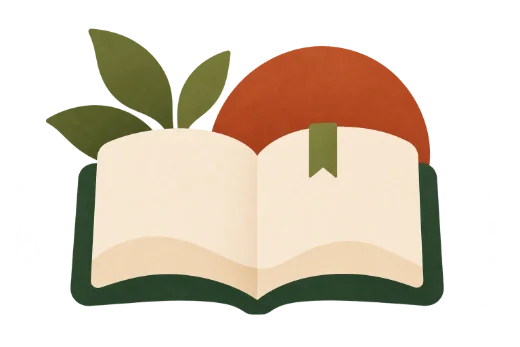
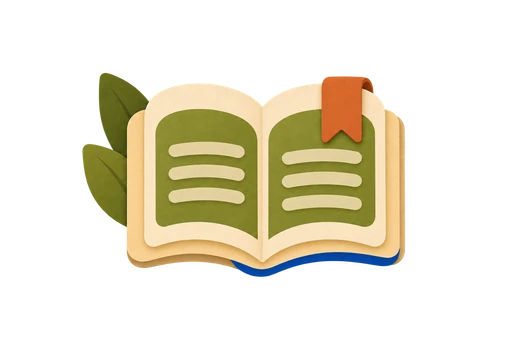
feat(visuals): apply Visual Package 01 assets to Admin Web
- Review Tasks, Metrics and Email banners use the new approved artwork in a
  5:2 frame (object-fit cover, cropped on screen only).
- Email template cards and default email images use the four new icons;
  Invite and Password reset image descriptions now match the new art.
- Manage Team Role column uses the new compact role markers (24 px, row
  heights unchanged).
- Profile card uses the new illustration.
- Dark mode: role markers and the Profile illustration sit on the
  light-green brand surface so the dark hands stay visible.

The Live signal change (brief C) is held for a Team 03 decision. Supplied
PNGs are re-encoded as WebP only. Notes and evidence in
docs/Phase-3/visual-package-01/.

Claude-Session: https://claude.ai/code/session_01G2wYwUJdDpMZsqBVJSwRsJ

diff --git a/admin-web/components/ui/HeroBanner.tsx b/admin-web/components/ui/HeroBanner.tsx
@@ -11,25 +11,36 @@ type HeroBannerProps = {
   image: StaticImage;
   // Optional wider image for screens 1280 px and up
   wideImage?: StaticImage;
+  // Optional banner proportions when the artwork is taller than the banner (Visual
+  // Package 01). The artwork fills the banner (object-fit: cover) and is cropped on
+  // screen only, toward `focus`; the file itself is never cropped.
+  frame?: { width: number; height: number };
+  focus?: string;
   actions?: ReactNode;
   // h1 by default: the banner is the page's main heading
   headingLevel?: 1 | 2;
 };
 
+// Visual Package 01 banners (Review Tasks, Metrics, Email): the 2:1 artwork is shown in a
+// 5:2 banner, cropped on screen slightly below center so every object stays in view.
+export const packageHeroFrame = { frame: { width: 5, height: 2 }, focus: 'right 70%' };
+
 // Page hero banner (approved prototype). The image fills the banner; the text sits on a
 // solid Warm Care panel on the left so it never depends on the photo for contrast.
 // The artwork is unchanged; only its cropping, position and responsive behavior are set here.
-export function HeroBanner({ title, description, eyebrow, image, wideImage, actions, headingLevel = 1 }: HeroBannerProps) {
+export function HeroBanner({ title, description, eyebrow, image, wideImage, frame, focus, actions, headingLevel = 1 }: HeroBannerProps) {
   const Heading = headingLevel === 1 ? 'h1' : 'h2';
   // Phase 3: the banner keeps the artwork's own proportions, so it is never squashed and
   // the illustration is not cropped at the sides (the text sits over the plain paper area).
-  const wide = wideImage ?? image;
+  const box = frame ?? image;
+  const wide = frame ?? wideImage ?? image;
   const ratio = {
-    '--hero-ratio': `${image.width} / ${image.height}`,
-    '--hero-w': image.width,
-    '--hero-h': image.height,
+    '--hero-ratio': `${box.width} / ${box.height}`,
+    '--hero-w': box.width,
+    '--hero-h': box.height,
     '--hero-w-wide': wide.width,
     '--hero-h-wide': wide.height,
+    ...(focus ? { '--hero-focus': focus } : {}),
   } as CSSProperties;
   return (
     <section className={styles.hero} style={ratio}>

diff --git a/admin-web/app/_account/RoleBadge.tsx b/admin-web/app/_account/RoleBadge.tsx
@@ -3,17 +3,28 @@ import { roleNames, type AdminRoleId } from '../../../shared/content/permissions
 import handsJar from '../../../shared/brand/illustrations/illus-hands-jar.png';
 import archDrop from '../../../shared/brand/illustrations/illus-arch-drop.webp';
 import leafHand from '../../../shared/brand/illustrations/illus-leaf-hand.png';
+import roleSuperAdmin from '../../../shared/brand/illustrations/roles/role-super-admin.webp';
+import roleAdmin from '../../../shared/brand/illustrations/roles/role-admin.webp';
+import roleTeamMember from '../../../shared/brand/illustrations/roles/role-team-member.webp';
 import styles from './account.module.css';
 
 export const roleArt = { 'hands-jar': handsJar, 'arch-drop': archDrop, 'leaf-hand': leafHand };
+// Visual Package 01: compact role markers for the Manage Team Role column only
+const roleMarkers: Record<AdminRoleId, { src: string; width: number; height: number }> = { super_admin: roleSuperAdmin, admin: roleAdmin, team_member: roleTeamMember };
 const roleClass: Record<AdminRoleId, string> = { super_admin: styles.roleSuper, admin: styles.roleAdmin, team_member: styles.roleTeam };
 
 // Role illustration, role color and the role name in text (approved prototype)
-export function RoleBadge({ role }: { role: AdminRoleId }) {
-  const art = roleArt[roleIllustration[role]];
+export function RoleBadge({ role, marker = false }: { role: AdminRoleId; marker?: boolean }) {
+  const art = marker ? roleMarkers[role] : roleArt[roleIllustration[role]];
   return (
     <span className={`${styles.role} ${roleClass[role]}`}>
-      <img className={styles.roleArt} src={art.src} width={24} height={24} alt="" />
+      <img
+        className={marker ? styles.roleMarker : styles.roleArt}
+        src={art.src}
+        width={marker ? Math.round((24 * art.width) / art.height) : 24}
+        height={24}
+        alt=""
+      />
       {roleNames[role]}
     </span>
   );

diff --git a/admin-web/app/_account/ProfileView.tsx b/admin-web/app/_account/ProfileView.tsx
@@ -1,7 +1,7 @@
 'use client';
 
 import { useState } from 'react';
-import { profilePageCopy as copy, roleIllustration } from '../../../shared/content/account-pages';
+import { profilePageCopy as copy } from '../../../shared/content/account-pages';
 import { adminScreens } from '../../../shared/content/admin-web-screens';
 import { notificationsSeed } from '../../../shared/content/notifications';
 import { roleNames } from '../../../shared/content/permissions';
@@ -13,7 +13,7 @@ import { Drawer } from '../../components/overlay/Drawer';
 import { Button } from '../../components/ui/Button';
 import { useIdentity } from '../_data/identity';
 import { isSupabaseMode } from '../_data/config';
-import { roleArt } from './RoleBadge';
+import profileCard from '../../../shared/brand/illustrations/profile/profile-card.webp';
 import styles from './account.module.css';
 
 const base = process.env.NEXT_PUBLIC_BASE_PATH ?? '';
@@ -29,7 +29,6 @@ export function ProfileView() {
   const [photo, setPhoto] = useState<UploadValue>(null);
   const [notice, setNotice] = useState('');
   const shownName = name || me.name;
-  const art = me.adminRole ? roleArt[roleIllustration[me.adminRole]] : null;
 
   return (
     <div className={styles.page}>
@@ -48,7 +47,7 @@ export function ProfileView() {
               <span className={styles.note}>{me.adminRole ? roleNames[me.adminRole] : me.role}</span>
               <span className={styles.note}>{me.status}</span>
             </span>
-            {art && <img className={styles.profileArt} src={art.src} width={96} height={96} alt="" />}
+            <img className={styles.profileArt} src={profileCard.src} width={144} height={96} alt="" />
           </div>
           {/* Sample mode only: Supabase mode has no profile editing yet */}
           {!isSupabaseMode && (

diff --git a/admin-web/app/_email/EmailWorkspace.tsx b/admin-web/app/_email/EmailWorkspace.tsx
@@ -12,7 +12,7 @@ import {
   type EmailTemplateId,
 } from '../../../shared/content/email';
 import { can } from '../../../shared/content/permissions';
-import heroEmail from '../../../shared/brand/heroes/hero-email.jpg';
+import heroEmail from '../../../shared/brand/heroes/hero-email.webp';
 import cardInvite from '../../../shared/brand/illustrations/email/card-invite.webp';
 import cardNudge from '../../../shared/brand/illustrations/email/card-nudge.webp';
 import cardReset from '../../../shared/brand/illustrations/email/card-reset.webp';
@@ -31,7 +31,7 @@ import { PageHeader } from '../../components/layout/PageHeader';
 import { Dialog } from '../../components/overlay/Dialog';
 import { Button } from '../../components/ui/Button';
 import { CuIcon } from '../../components/ui/CuIcon';
-import { HeroBanner } from '../../components/ui/HeroBanner';
+import { HeroBanner, packageHeroFrame } from '../../components/ui/HeroBanner';
 import { StatusBadge, type StatusTone } from '../../components/ui/StatusBadge';
 import { Tabs } from '../../components/ui/Tabs';
 import { demoModeCopy } from '../../../shared/content/demo-mode';
@@ -646,6 +646,7 @@ export function EmailWorkspace({ state = 'ready' }: { state?: EmailViewState }) 
         title={copy.heroTitle}
         description={copy.heroDescription}
         image={heroEmail}
+        {...packageHeroFrame}
         actions={
           <Button variant="primary" onClick={() => openEditor(fromTemplate('welcome', me.id), 'edit')} disabled={loadState === 'loading' || loadState === 'error'}>
             <CuIcon name="plus" size={16} /> {copy.newEmail}

diff --git a/admin-web/app/_account/account.module.css b/admin-web/app/_account/account.module.css
@@ -164,6 +164,40 @@
   background: var(--color-surface-warm);
 }
 
+/* Role column marker (Visual Package 01): same 24 px footprint as before, so row height
+   and alignment don't change. Transparent artwork, kept at its own proportions. */
+.roleMarker {
+  flex: none;
+  width: auto;
+  max-width: calc(var(--space-32) + var(--space-12));
+  height: 24px;
+  object-fit: contain;
+}
+
+/* Dark mode: the dark green hands need a light backdrop (illustrations README), so the
+   role markers and the Profile illustration sit on the light-green brand surface */
+@media (prefers-color-scheme: dark) {
+  :root:not([data-theme='light']) .roleMarker {
+    padding: 0 var(--space-4);
+    border-radius: var(--radius-small);
+    background: var(--color-brand);
+  }
+
+  :root:not([data-theme='light']) .profileArt {
+    background: var(--color-brand);
+  }
+}
+
+:root[data-theme='dark'] .roleMarker {
+  padding: 0 var(--space-4);
+  border-radius: var(--radius-small);
+  background: var(--color-brand);
+}
+
+:root[data-theme='dark'] .profileArt {
+  background: var(--color-brand);
+}
+
 .statusInvited {
   color: var(--color-highlight);
 }
@@ -225,7 +259,9 @@
 }
 
 .profileArt {
-  width: 96px;
+  /* Visual Package 01 illustration is wider than tall: same 96 px height, its own proportions */
+  width: auto;
+  max-width: 144px;
   height: 96px;
   padding: var(--space-8);
   border-radius: var(--radius-medium);

diff --git a/shared/content/email.ts b/shared/content/email.ts
@@ -67,7 +67,7 @@ export const emailTemplates: EmailTemplate[] = [
     body: 'You’ve been invited to join Cuidance Admin, a shared workspace for creating, reviewing, and maintaining trusted beauty guidance.\n\nStart by accepting your invitation and exploring the work prepared for your team.',
     button: 'Accept invitation',
     link: `${ex}admin/invitation`,
-    imageAlt: 'Illustration of three people beside a guidance note',
+    imageAlt: 'Illustration of a sealed envelope with an invitation card',
     preheader: 'Review guidance, product information, and team updates in one workspace.',
     eyebrow: 'INVITATION · CUIDANCE ADMIN',
     support: 'This invitation is intended for the invited recipient and may expire. If you need help, contact your workspace administrator.',
@@ -109,7 +109,7 @@ export const emailTemplates: EmailTemplate[] = [
     body: 'We received a request to reset your password. This link expires in 30 minutes. If you did not ask for this, you can ignore this email.',
     button: 'Reset password',
     link: `${ex}admin/reset`,
-    imageAlt: 'Illustration of a padlock beside a document',
+    imageAlt: 'Illustration of a checklist with a padlock',
   },
 ];
 

diff --git a/admin-web/app/review-tasks/page.tsx b/admin-web/app/review-tasks/page.tsx
@@ -1,7 +1,7 @@
 import { Suspense } from 'react';
 import { assignTaskCopy as copy } from '../../../shared/content/assign-task';
-import heroReview from '../../../shared/brand/heroes/hero-review.jpg';
-import { HeroBanner } from '../../components/ui/HeroBanner';
+import heroReview from '../../../shared/brand/heroes/hero-review.webp';
+import { HeroBanner, packageHeroFrame } from '../../components/ui/HeroBanner';
 import { screenMetadata } from '../_screens/ScreenPage';
 import { AssignTask } from '../_reviewTasks/AssignTask';
 import { ReviewTasksContent } from '../_reviewTasks/ReviewTasksContent';
@@ -14,7 +14,7 @@ export const metadata = screenMetadata('review-tasks');
 export default function Page() {
   return (
     <main className="shell">
-      <HeroBanner title={copy.heroTitle} description={copy.heroSubtitle} image={heroReview} />
+      <HeroBanner title={copy.heroTitle} description={copy.heroSubtitle} image={heroReview} {...packageHeroFrame} />
       <AssignTask>
         {/* The static page shows the seeded tasks, so it works without JavaScript */}
         <Suspense fallback={<ReviewTasksContent state="ready" />}>

diff --git a/admin-web/app/content-metrics/page.tsx b/admin-web/app/content-metrics/page.tsx
@@ -1,6 +1,6 @@
 import { metricsOverviewCopy as copy } from '../../../shared/content/metrics-overview';
-import heroMetrics from '../../../shared/brand/heroes/hero-metrics.jpg';
-import { HeroBanner } from '../../components/ui/HeroBanner';
+import heroMetrics from '../../../shared/brand/heroes/hero-metrics.webp';
+import { HeroBanner, packageHeroFrame } from '../../components/ui/HeroBanner';
 import { MetricsOverview } from '../_metrics/MetricsOverview';
 import { screenMetadata } from '../_screens/ScreenPage';
 
@@ -10,7 +10,7 @@ export const metadata = screenMetadata('content-metrics');
 export default function Page() {
   return (
     <main className="shell">
-      <HeroBanner eyebrow={copy.heroEyebrow} title={copy.heroTitle} description={copy.heroSubtitle} image={heroMetrics} />
+      <HeroBanner eyebrow={copy.heroEyebrow} title={copy.heroTitle} description={copy.heroSubtitle} image={heroMetrics} {...packageHeroFrame} />
       <MetricsOverview />
     </main>
   );

diff --git a/admin-web/app/_account/ManageTeamView.tsx b/admin-web/app/_account/ManageTeamView.tsx
@@ -75,7 +75,7 @@ function SampleManageTeam() {
             <strong>{m.name}</strong>
           </span>
         ),
-        role: <RoleBadge role={m.role} />,
+        role: <RoleBadge role={m.role} marker />,
         status: <span className={m.status === 'Invited' ? styles.statusInvited : undefined}>{m.status}</span>,
         lastActive: m.lastActive,
         actions: (

diff --git a/admin-web/components/ui/HeroBanner.module.css b/admin-web/components/ui/HeroBanner.module.css
@@ -39,7 +39,7 @@
   height: 100%;
   object-fit: cover;
   /* Keep the illustration (right) and its ground line (bottom) in view when space is short */
-  object-position: right bottom;
+  object-position: var(--hero-focus, right bottom);
 }
 
 /* Solid panel behind the text: contrast never depends on the image */

diff --git a/docs/Phase-3/visual-package-01/visual-package-01.md b/docs/Phase-3/visual-package-01/visual-package-01.md
@@ -1,0 +1,65 @@
+# Visual Package 01: Admin Web asset update
+
+_Branch `claude/clever-goldberg-vgmhex`, started again from `main` at `1d41d21` (the polish pass merged). Admin Web only. The brand website, product files and product data, Supabase, roles, navigation, copy (apart from two image descriptions) and interactions are unchanged._
+
+Source: `claude-code-visual-package-01.zip` from Team 03 (Nov 26, 2026): 11 approved images and an implementation brief. The brief asked to check the current build first and change only what was missing. None of the five revisions were in the build yet.
+
+## What changed
+
+| Brief | Done | Notes |
+| --- | --- | --- |
+| A. Hero banners | Review Tasks, Metrics and Email use the new artwork | The new artwork is 2:1, but the current banners are 3:1. A 3:1 crop cut into the jars and documents, so these three banners are 5:2: the artwork fills them (`object-fit: cover`), cropped on screen slightly below center. The text panel, heading, description, button and layout are unchanged, and the text sits on the cream side. The banners are about 20% taller (1440 px: 359 to 430 px) |
+| B. Email template icons | The four new icons replace the old ones in the same 96 px containers | The same files are the templates' default email images, so the Invite and Password reset image descriptions were updated to match the new art ("a sealed envelope with an invitation card", "a checklist with a padlock") |
+| C. Live signal | **Not done, waiting on Team 03** | See "Decision needed" |
+| D. Manage Team role icons | The new markers are in the Role column only, 24 px tall | Row heights are unchanged. The "Roles" summary card under the table keeps the earlier role illustrations (see "Decision needed") |
+| E. Profile card | The new illustration replaces the old one in the same place | It's the same 96 px tall, at its own proportions. Before, the illustration changed with your role; now everyone sees the same one |
+
+In dark mode, the role markers and the Profile illustration sit on the light-green brand surface (`--color-brand`), so the dark green hands stay visible (the illustrations README rule).
+
+**Files**
+- The supplied PNGs were re-encoded as WebP (transparency kept, scaled for the web at their own proportions). The artwork isn't redrawn, recolored or cropped.
+- The old hero JPGs are removed; they're still in Git history.
+- Code: `HeroBanner` (optional `frame` and `focus`, plus the shared `packageHeroFrame`), the three hero pages, `RoleBadge` (an optional `marker`), `ManageTeamView`, `ProfileView`, `account.module.css`, and `shared/content/email.ts` (two image descriptions).
+
+## Decision needed
+
+1. **Live signal (brief C).** The brief describes a separate signal illustration on a "Release card" on the Live / Guidance App page. In this build the Live page has no separate illustration and no card by that name. The only signal is the small icon inside the "Live (sample)" status pill on the Current preview card. Moving it to the page header would change the pill, which the brief says to keep, and keeping both would show two signals. Waiting on Team 03's choice.
+2. **Roles summary card (brief D).** The brief limits the new icons to the Role column, so the summary card under the table keeps the earlier illustrations. That means Manage Team shows two icon styles for the same roles. Team 03 can choose to switch the card too.
+3. **Banner height (brief A).** The three new banners are about 20% taller than the Dashboard and Content banners. A 3:1 frame would match them but crops the objects.
+
+## Checks
+
+| Check | Result |
+| --- | --- |
+| Type check; `npm test` | Pass; 42 of 42 |
+| Production build; GitHub Pages build with the deploy workflow's sample-mode check | Pass; Pass |
+| Visual Package checks (against `main`) | 22 of 22 |
+| Full page pass (26 pages, 6 widths, light, dark and high contrast with larger text) | 312 loads, 0 failures |
+| Polish, Phase 3, Keyboard and touch, Live, Email, Demo | 26, 20, 21, 15, 20, 18: all pass |
+| Product Library | 17 of 17 (one old script step still expects an archived product the reference data doesn't have; the corrected check passes) |
+| Roles (Super Admin and Team Member) | 37 of 37 |
+| axe-core (33 routes plus drawers and dialogs, light and dark), plus landmark and label checks on the five changed pages | No findings |
+
+**Visual Package checks (22)**
+- **Banners:** each of the three, in light, dark and high contrast, at 8 widths from 1920 to 320 px:
+  - the new artwork, at its 2:1 proportions, fills a 5:2 frame;
+  - it's decorative, and the text panel stays on the cream side (within 56% of the width);
+  - nothing is clipped, and there's no horizontal scrolling.
+- **Email:** all four new icons load in unchanged containers and scale the same. The card text and actions are identical to `main`. The Invite preview uses the new image with a matching description.
+- **Manage Team** (3 modes, 3 widths):
+  - there is one new marker per row, only in the Role column, 24 px tall and decorative;
+  - table text and row heights are identical to `main`, and no images were added.
+- **Profile** (3 modes, 4 widths):
+  - there is one decorative illustration, the new one, at the same height and inside the card;
+  - the avatar, text, upload control, Edit profile, notifications and activity are identical to `main`.
+- **Unchanged pages:** Dashboard, Content, Product Library, Settings, Live App, Live Website, Commercial Content and Guidance Rules Review are pixel-identical to `main` at 1440 and 390 px.
+
+## Evidence
+
+`evidence/` (before is `main` at `1d41d21`):
+- `compare-hero-review-tasks-1440.png`, `compare-hero-review-tasks-390.png`
+- `compare-hero-metrics-1440.png`
+- `compare-hero-email-1440.png`
+- `compare-email-template-icons.png`
+- `compare-manage-team-role-column.png`
+- `compare-profile-card.png`

diff --git a/README.md b/README.md
@@ -164,9 +164,9 @@ Cuidance_Admin/
 │   ├── quiz-rules/        Answer cards, mixing rules, delivery rules
 │   ├── design-tokens/     Colors (light and dark), type, spacing, radius, stroke
 │   └── brand/
-│       ├── heroes/        Phase B1 cut-paper hero banner images (from the approved prototype)
+│       ├── heroes/        Cut-paper hero banner images (Phase B1 prototype; Review Tasks, Metrics and Email from Visual Package 01)
 │       ├── icons/         Phase B1 cu-icons path data (rendered by admin-web/components/ui/CuIcon.tsx)
-│       ├── illustrations/ Approved flat Cuidance illustrations (Phase A1, plus Phase B1 prototype assets; email/ for the Phase 2 email cards)
+│       ├── illustrations/ Approved flat Cuidance illustrations (Phase A1, plus Phase B1 prototype assets; email/ for the email cards, roles/ and profile/ from Visual Package 01)
 │       ├── live/          Phase 2 static Live preview images (App screen, website hero) from the approved prototype
 │       ├── auth/          Phase 3 approved paper-cut background for Sign in, Create account and Forgot password
 │       └── logo/          Approved Logo Version 4 files (package v03); prototype/ holds the cream mark for the icon rail
@@ -184,7 +184,7 @@ Cuidance_Admin/
 │   ├── Phase-A4/          Phase A4 release readiness: checks, security review, known limitations, go-live checklist
 │   ├── Phase-B1/          Phase B1 prototype implementation: role migration plan, progress and checks
 │   ├── Phase-B2/          Phase 2 PR 1 (Content, Product Library, Email, Live, role wording) and PR 2 (functional demo workflows): notes and checks
-│   ├── Phase-3/           Phase 3 visual polish and QA: changes against the baseline, QA results, branch inventory, before-and-after images; polish/ for the follow-up Admin Web polish pass
+│   ├── Phase-3/           Phase 3 visual polish and QA: changes against the baseline, QA results, branch inventory, before-and-after images; polish/ for the follow-up Admin Web polish pass; visual-package-01/ for the Visual Package 01 asset update
 │   └── archived/
 │       └── admin-mobile/  Archived Admin Mobile reference (no active work)
 ├── README.md
